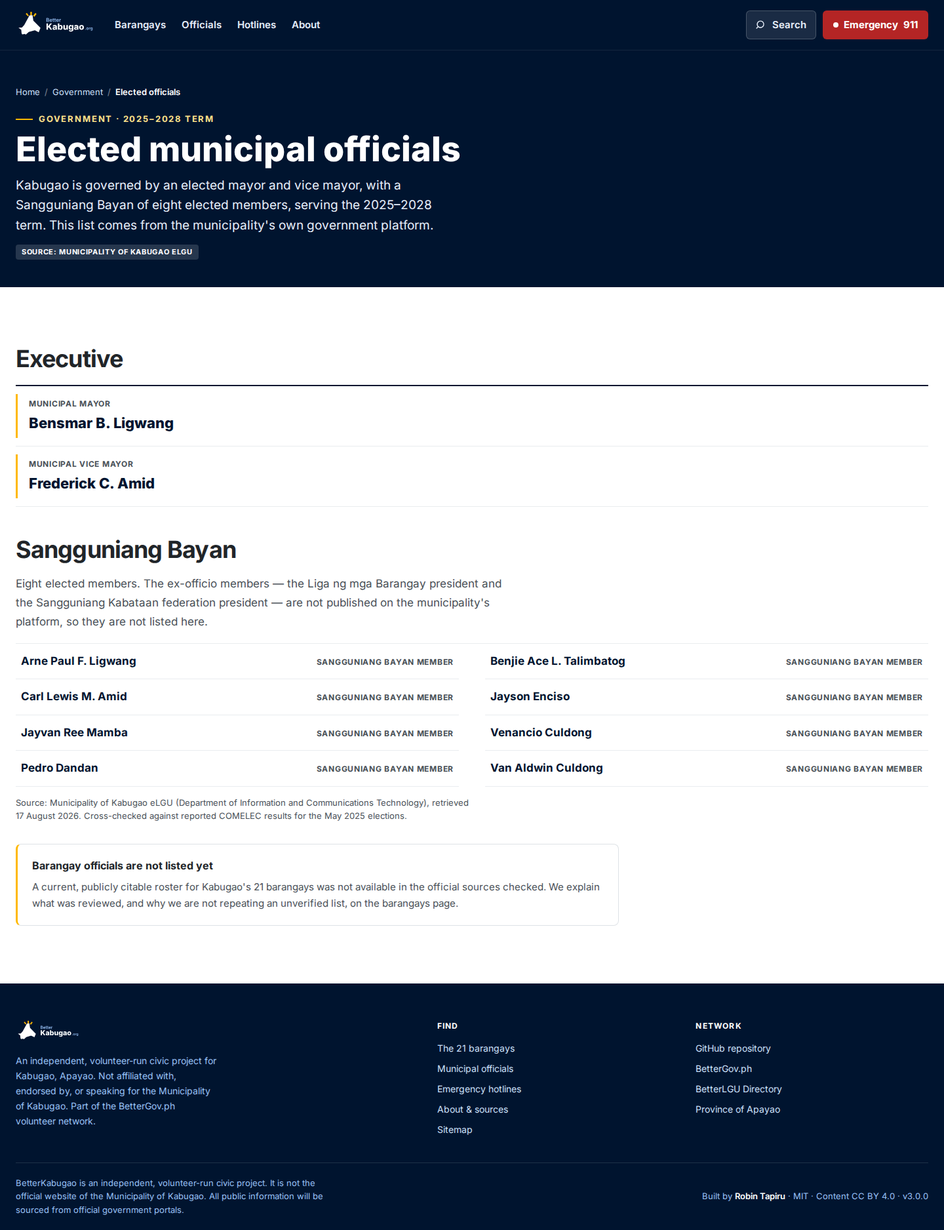
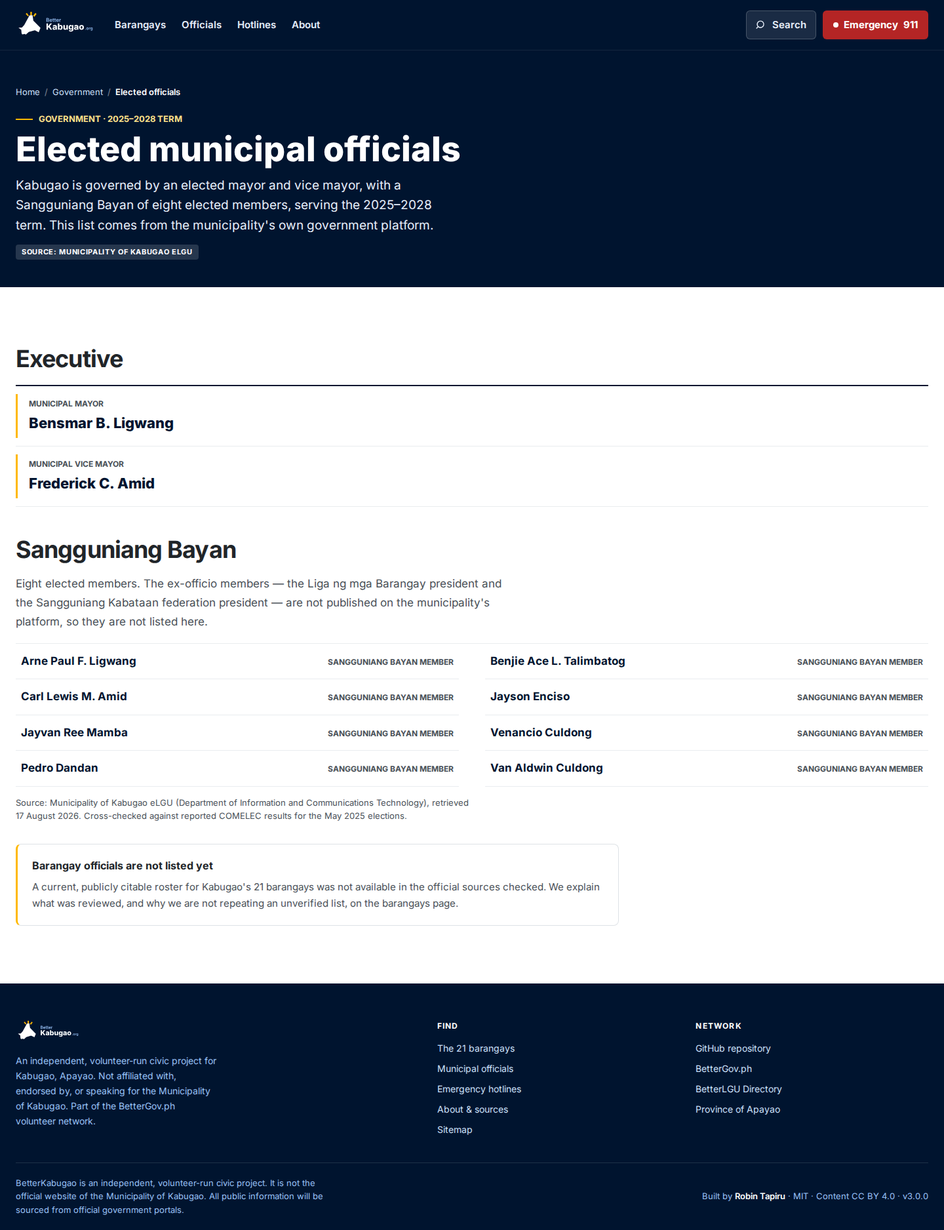
chore: record checkpoint 2a push/approval and polish cp2a css tokens

diff --git a/src/styles.css b/src/styles.css
@@ -1425,9 +1425,17 @@ a:focus-visible, button:focus-visible { outline: 3px solid var(--color-primary-5
    CHECKPOINT 2A — Government hub + Elected officials
    Additive "Kabugao in View" interior header, an editorial
    wayfinding list (not cards), and a scannable officials roster.
-   Tokens only; letter-spacing 0 on titles; one restrained
-   page-entry animation; reduced motion honoured.
+   Tokens only; letter-spacing 0 on titles and uppercase labels; one
+   restrained page-entry animation; reduced motion honoured.
    ============================================================ */
+
+/* Local tokens for this block (clearly named; values preserved from the
+   approved Checkpoint 2A design). */
+:root {
+  --kv-eyebrow: #ffe08a;          /* light gold — kv interior header eyebrow */
+  --kv-on-navy: #e7eefb;          /* readable light text on the navy header */
+  --kv-status-soon-bg: #fbefdd;   /* pale amber — "In preparation" status pill */
+}
 
 /* ---- Interior header: additive "kv" variant (solid navy, gold rule) ---- */
 .page-head--kv { background: var(--color-primary-900); border-bottom: 0; padding-block: clamp(30px, 5vw, 54px) clamp(26px, 4vw, 42px); }
@@ -1435,10 +1443,10 @@ a:focus-visible, button:focus-visible { outline: 3px solid var(--color-primary-5
 .page-head--kv .crumbs a:hover { color: #fff; }
 .page-head--kv .crumbs span[aria-current] { color: #fff; }
 .page-head--kv .crumbs__sep { color: rgba(255, 255, 255, 0.5); }
-.page-head--kv .page-head__eyebrow { display: inline-flex; align-items: center; gap: 9px; color: #ffe08a; font-weight: 700; font-size: 0.8125rem; letter-spacing: 0.14em; text-transform: uppercase; }
+.page-head--kv .page-head__eyebrow { display: inline-flex; align-items: center; gap: 9px; color: var(--kv-eyebrow); font-weight: 700; font-size: 0.8125rem; letter-spacing: 0; text-transform: uppercase; }
 .page-head--kv .page-head__eyebrow::before { content: ""; width: 26px; height: 2px; background: var(--color-gold); }
 .page-head--kv h1 { color: #fff; font-size: clamp(2.1rem, 4.4vw, 3.25rem); font-weight: 800; letter-spacing: 0; line-height: 1.05; }
-.page-head--kv .page-head__desc { color: #e7eefb; font-size: clamp(1.02rem, 1.4vw, 1.1875rem); line-height: 1.6; }
+.page-head--kv .page-head__desc { color: var(--kv-on-navy); font-size: clamp(1.02rem, 1.4vw, 1.1875rem); line-height: 1.6; }
 .page-head--kv .page-head__badges .pill { background: rgba(255, 255, 255, 0.15); color: #fff; }
 
 /* ---- Government hub: editorial wayfinding list (not cards) ---- */
@@ -1453,16 +1461,16 @@ a:focus-visible, button:focus-visible { outline: 3px solid var(--color-primary-5
 .kv-guide__title { display: block; color: var(--color-primary-900); font-size: 1.25rem; font-weight: 800; letter-spacing: 0; }
 .kv-guide__desc { display: block; margin-top: 5px; color: var(--color-gray-700); font-size: 0.9375rem; line-height: 1.55; max-width: 54ch; }
 .kv-guide__meta { flex: none; display: flex; align-items: center; gap: 16px; }
-.kv-guide__status { white-space: nowrap; padding: 4px 10px; border-radius: 6px; font-size: 0.6875rem; font-weight: 700; letter-spacing: 0.06em; text-transform: uppercase; }
+.kv-guide__status { white-space: nowrap; padding: 4px 10px; border-radius: 6px; font-size: 0.6875rem; font-weight: 700; letter-spacing: 0; text-transform: uppercase; }
 .kv-guide__status--live { color: var(--color-success-700); background: var(--color-success-50); }
-.kv-guide__status--soon { color: var(--color-accent-700); background: #fbefdd; }
+.kv-guide__status--soon { color: var(--color-accent-700); background: var(--kv-status-soon-bg); }
 .kv-guide__go { flex: none; color: var(--color-primary-600); font-size: 1.25rem; font-weight: 700; }
 
 /* ---- Officials roster (scannable; no floating cards) ---- */
 .kv-roster { margin-top: 18px; border-top: 1px solid var(--color-gray-200); }
 .kv-roster__row { display: flex; align-items: baseline; justify-content: space-between; gap: 16px; padding: 14px 8px; border-bottom: 1px solid var(--color-gray-200); }
 .kv-roster__name { color: var(--color-primary-900); font-size: 1.0625rem; font-weight: 700; letter-spacing: 0; }
-.kv-roster__post { color: var(--color-gray-700); font-size: 0.75rem; font-weight: 700; letter-spacing: 0.06em; text-transform: uppercase; }
+.kv-roster__post { color: var(--color-gray-700); font-size: 0.75rem; font-weight: 700; letter-spacing: 0; text-transform: uppercase; }
 .kv-roster-h2 { margin-top: 44px; }
 /* Executive tier: one coherent roster with a gold rail and stronger hierarchy —
    the position sits above the name; deliberately not two floating cards. */

diff --git a/docs/START-HERE.md b/docs/START-HERE.md
@@ -6,7 +6,8 @@ project is, what is already built, what comes next and in what order, and which
 mistakes have already cost us time.
 
 Last updated: **24 August 2026** (Checkpoint 2A — Government hub + Officials —
-built, gate-green, awaiting Robin's push + Codex review; recap in
+pushed at `cf1ee7c`, Cloudflare preview live, Codex approved the code and visual
+direction; recap in
 `docs/sessions/2026-08-24-checkpoint-2a-government-officials.md`).
 Update this file at the end of every session — see
 [§11](#11-before-you-finish-a-session).
@@ -62,8 +63,8 @@ the **BetterGov.ph / BetterLGU** volunteer network.
 |---|---|
 | **Live on `betterkabugao.org`** | the full multi-page portal — **33 prerendered routes**, interactive maps, emergency hotlines, the public `/sitemap` page (PR #1) and the search/404 recovery screens + site-wide search overlay (PR #2). Merged and deployed. |
 | **`main` HEAD** | `745b877` — PR #2 (`improvement/search-404-recovery`) merged 20 Aug 2026 after Codex QA. **Untouched by the visual rebuild.** |
-| **Visual rebuild (experimental)** | `experiment/full-site-visual-rebuild-v2` — the approved **"Kabugao in View"** photo-led redesign. **Checkpoint 1 APPROVED by Codex (22 Aug 2026)** at the **approved implementation baseline** `e5dc158fe3b75b406f0a9663d5a70a55f08bf1bf`; **approved preview** `https://e19410fa.betterkabugao.pages.dev/`. The branch has since received the documentation-only handoff commit `5f7375598fd42d5fd239374aece1fda38282c648`; the **current remote HEAD** is whatever `git fetch origin && git rev-parse origin/experiment/full-site-visual-rebuild-v2` returns — always fetch and verify before work, never trust a SHA written in a doc. Still **not `main`/production**. **Checkpoint 2A (Government hub + Officials) is built and gate-green on this branch — see the next row.** Ledger: `docs/command-center/release-tracker.md`. Status: `docs/command-center/active-task.md`. Spec: `docs/superpowers/specs/2026-08-21-full-site-visual-rebuild-v2-kabugao-in-view.md`. |
-| **Checkpoint 2A (in review)** | `/government` + `/government/officials` brought into "Kabugao in View" (additive `kv` PageHeader variant, editorial wayfinding list, scannable officials roster). One focused commit prepared on parent `69a74d1…604005`; gates green (39 contract + 50 unit; typecheck + lint clean; `PRERENDER_OK 33 pages`; `npm run qa` **175/175**). **Not yet pushed** — awaiting Robin's push, the Cloudflare preview, and Codex review. No other route touched; weather/clock still unmounted; legacy CSS not pruned (deferred). Recap: `docs/sessions/2026-08-24-checkpoint-2a-government-officials.md`. |
+| **Visual rebuild (experimental)** | `experiment/full-site-visual-rebuild-v2` — the approved **"Kabugao in View"** photo-led redesign. **Checkpoint 1 APPROVED by Codex (22 Aug 2026)** at the **approved implementation baseline** `e5dc158fe3b75b406f0a9663d5a70a55f08bf1bf`; **approved preview** `https://e19410fa.betterkabugao.pages.dev/`. The branch has since received the documentation-only handoff commit `5f7375598fd42d5fd239374aece1fda38282c648`; the **current remote HEAD** is whatever `git fetch origin && git rev-parse origin/experiment/full-site-visual-rebuild-v2` returns — always fetch and verify before work, never trust a SHA written in a doc. Still **not `main`/production**. **Checkpoint 2A (Government hub + Officials) is pushed and Codex-approved on this branch — see the next row.** Ledger: `docs/command-center/release-tracker.md`. Status: `docs/command-center/active-task.md`. Spec: `docs/superpowers/specs/2026-08-21-full-site-visual-rebuild-v2-kabugao-in-view.md`. |
+| **Checkpoint 2A (pushed, approved)** | `/government` + `/government/officials` brought into "Kabugao in View" (additive `kv` PageHeader variant, editorial wayfinding list, scannable officials roster). **Pushed at `cf1ee7cc4a29114d5819557f81b762e3bcd1404f`; Cloudflare preview https://69d4e1d9.betterkabugao.pages.dev/ ; Codex APPROVED the code and visual direction (2026-08-24).** Gates: 39 contract + 50 unit; typecheck + lint clean; `PRERENDER_OK 33 pages`; `npm run qa` **175/175**. A small docs/CSS cleanup pass followed. No other route touched; weather/clock still unmounted; legacy CSS not pruned (deferred). Recap: `docs/sessions/2026-08-24-checkpoint-2a-government-officials.md`. |
 | **Account migration** | **COMPLETE — handoff APPROVED by Codex on 2026-08-23** at approved handoff content commit `7b121df2cb79f879fdf2722202127fbe9509cff5`. The transfer document a new Claude account reads is `docs/sessions/2026-08-23-claude-account-migration-handoff.md` — roles, workflow, must-not-regress list, lessons, open questions — and it must follow that document's first-day checklist before doing anything else. |
 | **BetterLGU Directory** | PR [#208](https://github.com/jmacj/better-lgu-directory/pull/208) — Kabugao row updated to 🟢 Active, awaiting review by `jmacj`. Status not re-checked since 19 Aug 2026. |
 | **Quality gate (at the approved implementation baseline `e5dc158`)** | 39 contract + 49 unit tests green; lint, typecheck, build clean (`PRERENDER_OK 33 pages`); `npm run qa` **123/123** at 305/320/360/390/768/1280/1440 |

diff --git a/docs/command-center/release-tracker.md b/docs/command-center/release-tracker.md
@@ -6,8 +6,8 @@ Update this file whenever a commit is pushed, a preview is reviewed, or a
 release decision is made.
 
 _Last updated: **24 August 2026** (Checkpoint 2A — Government hub + Officials —
-implemented on the experimental branch; gates green; awaiting Robin's push, the
-Cloudflare preview, and Codex review)._
+pushed at `cf1ee7c`, Cloudflare preview live, Codex approved the code and visual
+direction; a small docs/CSS cleanup pass followed)._
 
 ## Release rules (standing)
 
@@ -82,19 +82,20 @@ at `docs/qa/checkpoint-1/qa-report.json`).
 ## Experimental — Checkpoint 2A ("Kabugao in View": Government hub + Officials)
 
 One focused commit brings `/government` and `/government/officials` into the CP1
-direction; no other route is touched. **Built and gate-green in a clean clone;
-not yet pushed** — awaiting Robin's push, the Cloudflare preview, and Codex review.
+direction; no other route is touched. **PUSHED at `cf1ee7c`; Cloudflare preview
+live; Codex APPROVED the code and visual direction (2026-08-24).** A small
+docs/CSS cleanup pass followed on the same branch.
 
 | | |
 |---|---|
 | Scope | `/government` (editorial wayfinding list) + `/government/officials` (scannable roster) |
-| Parent SHA | `69a74d1436509aeb0f97ce22b0c81a7cf1604005` (current experimental tip) |
+| Parent SHA | `69a74d1436509aeb0f97ce22b0c81a7cf1604005` (the parent of the CP2A commit) |
 | Changed — code | `src/components/PageHeader.tsx` (additive `kv` variant), `src/pages/SimplePages.tsx` (GovernmentPage), `src/pages/OfficialsPage.tsx`, `src/styles.css` (CP2A layer) |
 | Changed — tests/QA | `tests/site-contracts.test.mjs` (cross-check + 2 files), `src/App.test.tsx` (hub test), `scripts/qa/checkpoint1.mjs` (+ both routes; report now written to `docs/qa/checkpoint-2a/`), `docs/qa/checkpoint-2a/` (qa-report.json + screenshots + qa-note.md). The CP1 report `docs/qa/checkpoint-1/qa-report.json` is left unchanged. |
 | Changed — docs | this file, `active-task.md`, `START-HERE.md`, `CONTEXT.md`, `docs/skills/frontend-standards/SKILL.md`, `README.md`, `docs/sessions/2026-08-24-checkpoint-2a-government-officials.md` |
 | Gates | 39 contract + 50 unit; typecheck + lint clean; `PRERENDER_OK 33 pages`; `npm run qa` **175/175, exit 0** |
-| Commit SHA | produced when Robin commits on the authorized PC — record here after the push (the sandbox has no push credentials) |
-| Preview | recorded after Robin pushes and Cloudflare builds |
+| Pushed commit | `cf1ee7cc4a29114d5819557f81b762e3bcd1404f` (pushed 2026-08-24; a small docs/CSS cleanup commit follows on the same branch) |
+| Preview | https://69d4e1d9.betterkabugao.pages.dev/ (Cloudflare deploy succeeded) |
 
 ## Approval log
 
@@ -106,17 +107,16 @@ not yet pushed** — awaiting Robin's push, the Cloudflare preview, and Codex re
 | 2026-08-22 | **Checkpoint 1 approved** at `e5dc158` / preview `e19410fa` | Codex | this tracker; active-task |
 | 2026-08-23 | **Account-migration handoff APPROVED** at content commit `7b121df` — migration complete; the new Claude account follows the first-day checklist | Codex | active-task; this tracker |
 | 2026-08-24 | **Checkpoint 2A scope APPROVED for implementation** (`/government` + `/government/officials`) with rulings | Codex | active-task; `docs/sessions/2026-08-24-checkpoint-2a-government-officials.md` |
-| pending | Checkpoint 2A review (code + Cloudflare preview) | Codex | after Robin pushes |
+| 2026-08-24 | **Checkpoint 2A APPROVED** (code + visual direction) at `cf1ee7c` / preview `69d4e1d9` | Codex | this tracker; active-task |
 | pending | Later checkpoint scopes (2B onward) | Robin + Codex | — |
 | not approved | Merge of the rebuild to `main` | Codex | — |
 
 ## Next movements (in order)
 
 1. ~~Codex approves a Checkpoint 2A scope~~ — **done, 2026-08-24.**
-2. ~~Build Checkpoint 2A~~ — **done; gates green; awaiting push.**
-3. Robin pushes the single CP2A commit to `experiment/full-site-visual-rebuild-v2`
-   from the authorized PC (verify `git rev-parse HEAD` = `69a74d1…604005` first),
-   then records the commit SHA and the Cloudflare preview URL above.
-4. Codex reviews the code + the preview and approves or returns blockers.
-5. On approval, agree the next checkpoint scope (2B) with Robin + Codex.
-6. Merge to `main` is proposed only at full-site parity — Codex's call.
+2. ~~Build Checkpoint 2A~~ — **done; gates green.**
+3. ~~Robin pushes the CP2A commit~~ — **done: `cf1ee7c` (2026-08-24).**
+4. ~~Cloudflare preview + Codex review~~ — **done: preview https://69d4e1d9.betterkabugao.pages.dev/ ; Codex APPROVED the code and visual direction.**
+5. Final docs/CSS cleanup pass lands on the same branch (this update).
+6. Agree the next checkpoint scope (2B) with Robin + Codex when ready.
+7. Merge to `main` is proposed only at full-site parity — Codex's call.

diff --git a/docs/CONTEXT.md b/docs/CONTEXT.md
@@ -39,15 +39,17 @@ session (see `docs/skills/session-memory/SKILL.md`).
   `docs/sessions/2026-08-23-claude-account-migration-handoff.md`. Checkpoint 1
   remains approved at baseline `e5dc158`; `main` remains untouched; the current
   remote HEAD is still fetched and verified before any work.
-- **Checkpoint 2A (Government hub + Officials): BUILT, awaiting review.** Codex
-  approved the 2A scope on 2026-08-24; `/government` and `/government/officials`
-  were brought into "Kabugao in View" (an additive `kv` PageHeader variant, an
-  editorial wayfinding list, and a scannable officials roster) in one focused
-  commit prepared on parent `69a74d1…604005`. Gates green (39 contract + 50
-  unit; typecheck + lint clean; `PRERENDER_OK 33 pages`; `npm run qa` 175/175).
-  Not yet pushed — awaiting Robin's push, the Cloudflare preview, and Codex
-  review. No other route was touched; weather/clock stay unmounted; the now-unused
-  legacy CSS was left in place (pruning is a separate approved task).
+- **Checkpoint 2A (Government hub + Officials): PUSHED and APPROVED.**
+  `/government` and `/government/officials` were brought into "Kabugao in View"
+  (an additive `kv` PageHeader variant, an editorial wayfinding list, and a
+  scannable officials roster). Pushed at **`cf1ee7cc4a29114d5819557f81b762e3bcd1404f`**;
+  Cloudflare preview **https://69d4e1d9.betterkabugao.pages.dev/**; **Codex
+  approved the code and visual direction (2026-08-24)** (39 contract + 50 unit;
+  typecheck + lint clean; `PRERENDER_OK 33 pages`; `npm run qa` 175/175). A small
+  docs/CSS cleanup pass followed (record push/preview/approval; README report
+  path; CP2A CSS tokens + letter-spacing). No other route was touched;
+  weather/clock stay unmounted; the now-unused legacy CSS was left in place
+  (pruning is a separate approved task).
 - **BetterLGU Directory:** PR #208 open against `jmacj/better-lgu-directory` —
   Kabugao row updated to 🟢 Active with the domain and the three socials, PR body
   and checklist completed, and a comment answering the triage bot's four
@@ -113,8 +115,10 @@ session (see `docs/skills/session-memory/SKILL.md`).
   pinned-fact wording; route-count wording → "33 prerendered pages / 32 sitemap
   URLs"). Weather/clock left unmounted; the now-unused legacy CSS
   (`.nav-card` / `.card-grid` / `.official*`) left in place (pruning is the
-  separate approved cleanup task). Gates green; **not yet pushed** — awaiting
-  Robin's push, the Cloudflare preview, and Codex review. Full recap:
+  separate approved cleanup task). Gates green; **pushed at `cf1ee7c`**;
+  Cloudflare preview **https://69d4e1d9.betterkabugao.pages.dev/**; **Codex
+  approved the code and visual direction (2026-08-24)**; a small docs/CSS
+  cleanup pass followed. Full recap:
   `docs/sessions/2026-08-24-checkpoint-2a-government-officials.md`.
 - **2026-08-23** Account-migration handoff written (docs-only): new
   `docs/command-center/release-tracker.md` and
@@ -379,11 +383,11 @@ session (see `docs/skills/session-memory/SKILL.md`).
 1. ~~Codex reviews the account-migration handoff~~ — **done: APPROVED
    2026-08-23** at content commit `7b121df`. The new Claude account onboards
    via the handoff document's first-day checklist.
-2. **Checkpoint 2A (Government hub + Officials): built, awaiting review.** Codex
-   approved the 2A scope 2026-08-24; the single commit is prepared on parent
-   `69a74d1…604005` and gate-green — awaiting Robin's push, the Cloudflare
-   preview, and Codex review. Afterward Robin + Codex agree the next scope (2B).
-   No merge to `main` until full-site parity and Codex approval.
+2. **Checkpoint 2A (Government hub + Officials): pushed and approved.** Pushed at
+   `cf1ee7c`; Cloudflare preview https://69d4e1d9.betterkabugao.pages.dev/; Codex
+   approved the code and visual direction (2026-08-24); a small docs/CSS cleanup
+   pass followed. Next, Robin + Codex agree the scope for 2B. No merge to `main`
+   until full-site parity and Codex approval.
 3. ~~React hydration error #418~~ — **explained during rebuild QA**: `vite
    preview`'s SPA fallback serves the homepage HTML for every non-root URL, so
    hydration mismatches on every other route. Served the way Cloudflare Pages

diff --git a/docs/command-center/active-task.md b/docs/command-center/active-task.md
@@ -1,12 +1,12 @@
-# ACTIVE TASK — Checkpoint 2A built (Government hub + Officials), awaiting Codex review
+# ACTIVE TASK — Checkpoint 2A pushed and approved (Government hub + Officials)
 
 > Any session resuming work reads this file first, then
 > `docs/command-center/release-tracker.md`, then the latest file in
 > `docs/sessions/`. Update this file after each milestone.
 
-_Last updated: **2026-08-24** (Checkpoint 2A implemented on the experimental
-branch; all gates green in a clean clone; awaiting Robin's push, the Cloudflare
-preview, and Codex review)._
+_Last updated: **2026-08-24** (Checkpoint 2A pushed at `cf1ee7c`, Cloudflare
+preview live, Codex approved the code and visual direction; a small docs/CSS
+cleanup pass followed)._
 
 ---
 
@@ -23,7 +23,7 @@ preview, and Codex review)._
 | **Current remote HEAD** | never hardcoded here — `git fetch origin && git rev-parse origin/experiment/full-site-visual-rebuild-v2` is authoritative; later documentation-only corrections may follow `5f73755` |
 | `main` | `745b8779dd711cc20d478dee82f01101c9ed2c74` — **untouched**; no merge approved |
 | Gates at the approved CP1 baseline | 39 contract + 49 unit; typecheck + lint clean; build `PRERENDER_OK 33 pages`; `npm run qa` 123/123, exit 0 |
-| **Checkpoint 2A** | **BUILT on `experiment/full-site-visual-rebuild-v2`; prepared on parent `69a74d1…604005`; gates green (39 contract + 50 unit; typecheck + lint clean; `PRERENDER_OK 33 pages`; `npm run qa` 175/175). Awaiting Robin's push, the Cloudflare preview, and Codex review.** Scope: `/government` + `/government/officials` only. |
+| **Checkpoint 2A** | **PUSHED at `cf1ee7cc4a29114d5819557f81b762e3bcd1404f`; Cloudflare preview https://69d4e1d9.betterkabugao.pages.dev/ ; Codex APPROVED the code and visual direction (2026-08-24).** Gates: 39 contract + 50 unit; typecheck + lint clean; `PRERENDER_OK 33 pages`; `npm run qa` 175/175. Scope: `/government` + `/government/officials` only. A small docs/CSS cleanup pass follows on the same branch. |
 | Later checkpoints (2B onward) | **not started** — scope needs Robin + Codex approval |
 
 The full commit-by-commit history of Checkpoint 1 (six correction rounds,
@@ -61,17 +61,19 @@ Delivered on `experiment/full-site-visual-rebuild-v2`, prepared on parent
 Gates (clean clone, parent `69a74d1`): 39 contract + 50 unit; typecheck + lint
 clean; build `PRERENDER_OK 33 pages`; `npm run qa` **175/175, exit 0**.
 
-Status: **implemented; all gates green; NOT yet pushed.** Awaiting Robin's push
-from the authorized PC, the Cloudflare preview, and Codex review.
+Status: **PUSHED at `cf1ee7cc4a29114d5819557f81b762e3bcd1404f`; Cloudflare
+preview live at https://69d4e1d9.betterkabugao.pages.dev/ ; Codex APPROVED the
+code and visual direction (2026-08-24).** A small docs/CSS cleanup pass follows
+on the same experimental branch.
 
 ## 2. What happens next (in order)
 
-1. Robin pushes the single Checkpoint 2A commit to
-   `experiment/full-site-visual-rebuild-v2` from the authorized PC (verify
-   `git rev-parse HEAD` = `69a74d1…604005` before committing).
-2. Cloudflare auto-builds a preview; Robin relays the `*.pages.dev` URL.
-3. Codex reviews the code + the preview and approves or returns blockers.
-4. On approval, the next checkpoint scope (2B) is agreed with Robin + Codex.
+1. ~~Robin pushes Checkpoint 2A~~ — **done: pushed at `cf1ee7c` (2026-08-24).**
+2. ~~Cloudflare preview~~ — **done: https://69d4e1d9.betterkabugao.pages.dev/**
+3. ~~Codex reviews the code + preview~~ — **done: APPROVED (2026-08-24).**
+4. A small docs/CSS cleanup pass (record push/preview/approval; README report
+   path; CP2A CSS tokens + letter-spacing) lands on the same branch.
+5. The next checkpoint scope (2B) is agreed with Robin + Codex when ready.
    **No merge to `main` until full-site parity and Codex's explicit approval.**
 
 ## 3. Standing constraints

diff --git a/docs/sessions/2026-08-24-checkpoint-2a-government-officials.md b/docs/sessions/2026-08-24-checkpoint-2a-government-officials.md
@@ -56,21 +56,25 @@ other route touched. Prepared on parent `69a74d1…604005`.
 - Looked at the render: both routes at 1440/768/390/305 (screenshots in
   `docs/qa/checkpoint-2a/{government,officials}-{1440,768,390,305}.png`). Zero
   horizontal overflow, one h1/one main, calm/civic, visually of a piece with CP1.
-- NOT verified here: the live Cloudflare preview (produced only after Robin
-  pushes) — Codex's final review is on that URL.
+- Live Cloudflare preview verified by Codex at
+  https://69d4e1d9.betterkabugao.pages.dev/ (390px Government and Officials: no
+  overflow, correct content and links, clean console).
 
 ## Open threads
-- Awaiting Robin's push, the Cloudflare preview URL, and Codex review.
-- Commit SHA is produced on Robin's PC (sandbox has no push credentials) —
-  record it in the release tracker after the push.
+- Pushed at `cf1ee7cc4a29114d5819557f81b762e3bcd1404f`; Codex approved the code
+  and visual direction (2026-08-24). A small docs/CSS cleanup pass followed on
+  the same branch.
 - Everything from the migration handoff's open list still stands (README fuller
   refresh, licence ISC vs MIT·CC BY 4.0, legacy prune, weather/clock decision,
   `<noscript>` styling, hotline confirmation, BLGF licence, PR #208).
 
 ## Handoff notes
-- Robin handles all Git actions from the authorized PC; the completed changes
-  sit uncommitted in the working tree, prepared on parent
-  `69a74d1436509aeb0f97ce22b0c81a7cf1604005` (keep it as the parent).
+- Pushed by Robin at `cf1ee7cc4a29114d5819557f81b762e3bcd1404f` (parent
+  `69a74d1436509aeb0f97ce22b0c81a7cf1604005`); Cloudflare preview
+  https://69d4e1d9.betterkabugao.pages.dev/; Codex approved the code and visual
+  direction (2026-08-24). A small docs/CSS cleanup pass followed on the same
+  branch (notice reword; README report path → checkpoint-2a; CP2A CSS colour
+  tokens + letter-spacing 0 on the new eyebrow/status/roster-post labels).
 - QA evidence for Codex is repository-relative: screenshots in
   `docs/qa/checkpoint-2a/`, the machine-readable report at
   `docs/qa/checkpoint-2a/qa-report.json`, and this recap.

diff --git a/README.md b/README.md
@@ -56,7 +56,7 @@ To inspect the built site locally, serve `dist` with a static server that honour
 npm run qa        # builds, serves dist/ like Cloudflare Pages, runs real-Chrome checks
 ```
 
-`npm run qa` (`scripts/qa/`) launches Chromium through Playwright — a dev-only dependency, so `npm install` fetches the matching browser (or run `npx playwright install chromium`). It serves `dist/` with clean-URL routing (not `vite preview`'s SPA fallback) and asserts every header, mobile-menu, search-overlay, barangay-directory and map interaction at 320–1440 widths, including the layered-Escape and menu-plus-search sequences. It writes a pass/fail report to `docs/qa/checkpoint-1/qa-report.json` and exits non-zero if any check fails.
+`npm run qa` (`scripts/qa/`) launches Chromium through Playwright — a dev-only dependency, so `npm install` fetches the matching browser (or run `npx playwright install chromium`). It serves `dist/` with clean-URL routing (not `vite preview`'s SPA fallback) and asserts every header, mobile-menu, search-overlay, barangay-directory and map interaction at 320–1440 widths, including the layered-Escape and menu-plus-search sequences. It writes a pass/fail report to `docs/qa/checkpoint-2a/qa-report.json` (the current Checkpoint 2A report) and exits non-zero if any check fails.
 
 ## Cloudflare Pages
 

diff --git a/docs/qa/checkpoint-2a/qa-note.md b/docs/qa/checkpoint-2a/qa-note.md
@@ -2,8 +2,11 @@
 
 Date: 2026-08-24
 Branch: experiment/full-site-visual-rebuild-v2
-Prepared on parent SHA: 69a74d1436509aeb0f97ce22b0c81a7cf1604005
-(unchanged — no commit / push / merge / tag / branch action was performed here)
+Parent SHA: 69a74d1436509aeb0f97ce22b0c81a7cf1604005
+Pushed at: cf1ee7cc4a29114d5819557f81b762e3bcd1404f (2026-08-24)
+Cloudflare preview: https://69d4e1d9.betterkabugao.pages.dev/
+Status: Codex approved the code and visual direction (2026-08-24); a small
+docs/CSS cleanup pass followed on the same branch.
 Scope: /government and /government/officials only. No other route touched.
 
 ## Gates (clean clone, parent 69a74d1)
